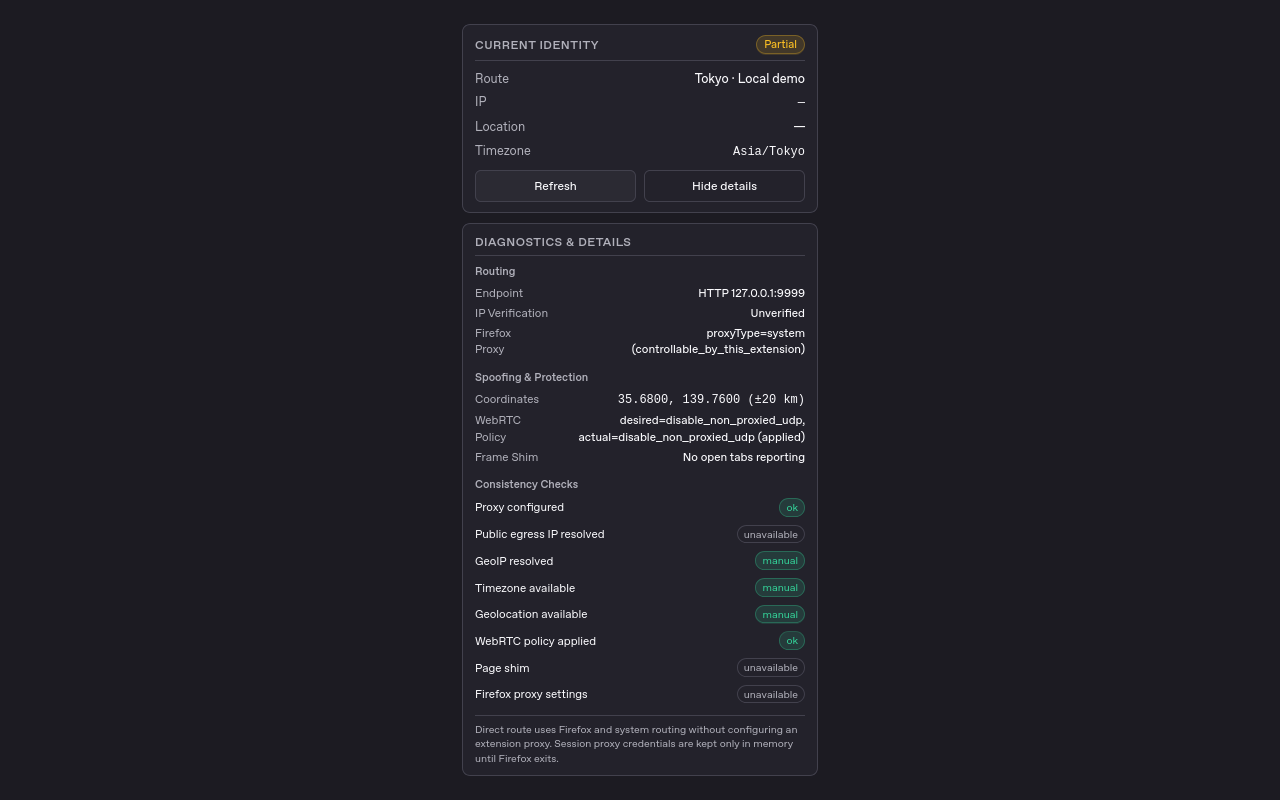
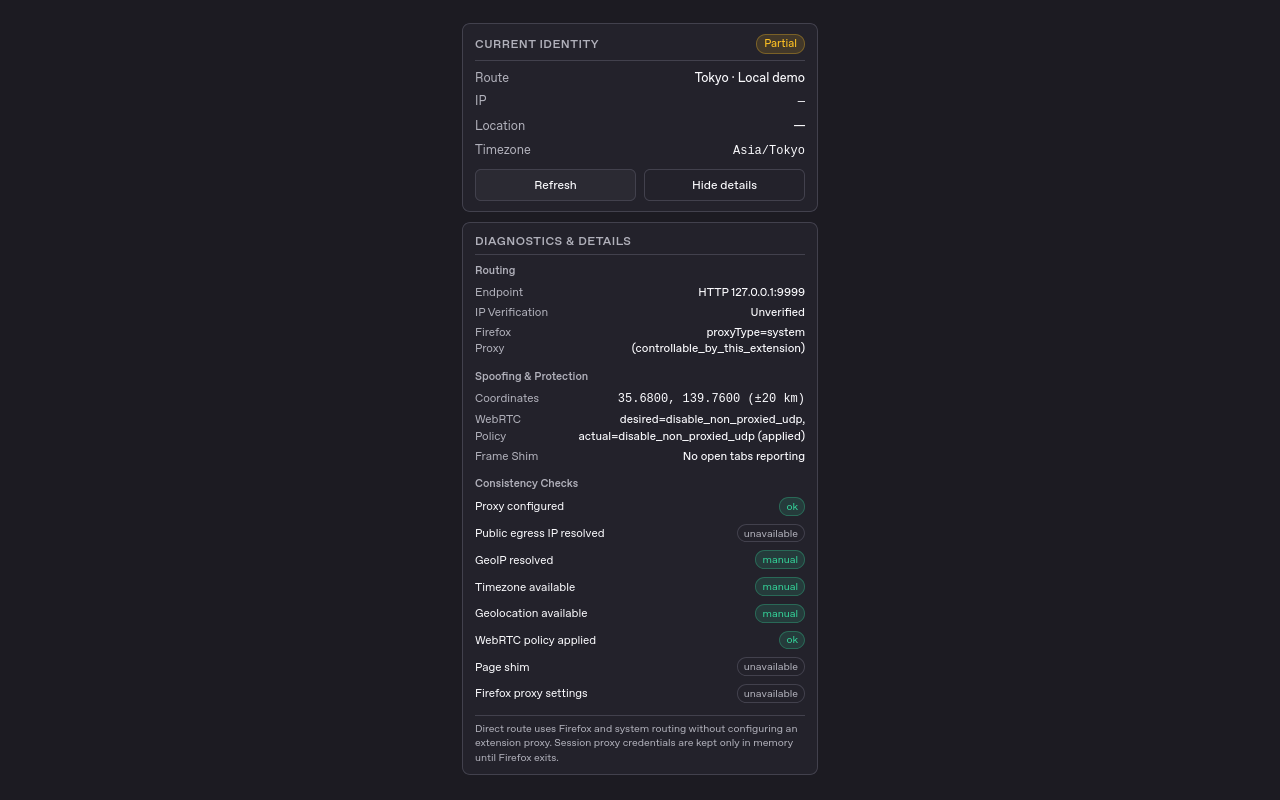
Prepare v1.1.3 listed Firefox release (#77)

diff --git a/tests/version-policy.test.ts b/tests/version-policy.test.ts
@@ -6,8 +6,8 @@ import {
 } from "../src/release/version";
 
 const current = {
-  packageVersion: "1.1.2",
-  manifestVersion: "1.1.2",
+  packageVersion: "1.1.3",
+  manifestVersion: "1.1.3",
   extensionId: "net-identity@jacek4yang.github.io",
 };
 
@@ -16,12 +16,12 @@ describe("release version policy", () => {
     expect(
       checkReleaseVersion({
         ...current,
-        tag: "v1.1.2",
-        previousVersions: ["1.0.0", "1.1.0", "1.1.1"],
+        tag: "v1.1.3",
+        previousVersions: ["1.0.0", "1.1.0", "1.1.1", "1.1.2"],
         dirty: false,
         requireClean: true,
       }),
-    ).toEqual({ ok: true, version: "1.1.2" });
+    ).toEqual({ ok: true, version: "1.1.3" });
   });
 
   it("rejects a mismatched tag, a dirty tree, a downgrade, and a repeat", () => {
@@ -34,7 +34,7 @@ describe("release version policy", () => {
     const downgraded = checkReleaseVersion({ ...current, previousVersions: ["1.2.0"] });
     expect(downgraded.ok).toBe(false);
 
-    const duplicate = checkReleaseVersion({ ...current, previousVersions: ["1.1.2"] });
+    const duplicate = checkReleaseVersion({ ...current, previousVersions: ["1.1.3"] });
     expect(duplicate.ok).toBe(false);
 
     const malformed = checkReleaseVersion({ ...current, packageVersion: "0.2" });

diff --git a/tests/release-workflow.test.ts b/tests/release-workflow.test.ts
@@ -8,6 +8,9 @@ const ci = readFileSync(".github/workflows/ci.yml", "utf8");
 const firefox = readFileSync(".github/workflows/firefox-invariants.yml", "utf8");
 
 describe("two-phase AMO publication", () => {
+  it("selects listed distribution for the next release without changing channel support", () => {
+    expect(JSON.parse(readFileSync("release-config.json", "utf8"))).toEqual({ channel: "listed" });
+  });
   it("submits only from version tags after both complete gates", () => {
     expect(workflow).toContain('"v[0-9]+.[0-9]+.[0-9]+"');
     expect(workflow).toContain(

diff --git a/docs/RELEASING.md b/docs/RELEASING.md
@@ -95,8 +95,11 @@ its canonical URL and update README via a separate docs PR; do not modify tagged
 ## Credentials and diagnostics
 
 Existing repository secrets `AMO_JWT_ISSUER` / `AMO_JWT_SECRET` are used only by trusted
-submission/finalization and the main-only read-only status workflow. PR workflows never
-receive them. Node's built-in HMAC-SHA256 creates a JWT valid for 60 seconds. API GETs use
+submission/finalization, the main-only read-only status workflow, and the separate
+manual main-only listing publisher. The publisher changes only reviewed public listing
+copy/media after exact listed-version approval and release finalization; it cannot sign
+or submit a version. Its read-only GitHub permissions, fixed AMO endpoints and resumable
+write receipts keep it separate from signing. PR workflows never receive these secrets. Node's built-in HMAC-SHA256 creates a JWT valid for 60 seconds. API GETs use
 a fixed AMO v5 origin, reject redirects and bound response sizes. Tokens, headers and raw
 signing-client output are never logged or archived. No local or third-party signing occurs.
 
@@ -144,26 +147,48 @@ gate includes the SOCKS outage, event-page restart, full-restart, authenticated 
 HTTP/HTTPS/WS/WSS, DNS, and zero direct-origin leak checks. At the time of that release, v1.1.0 was listed/unreviewed. Historical tags, releases
 and AMO submissions remain unchanged; see the dated status below.
 
-## Current status and unreleased candidate (2026-10-01)
+## Current status and 1.1.3 release candidate (2026-10-01)
 
 The public [v1.1.0 GitHub release](https://github.com/jacek4yang/net-identity/releases/tag/v1.1.0)
 now records listed distribution and the canonical
 [AMO URL](https://addons.mozilla.org/en-US/firefox/addon/net-identity/).
-This corrects the earlier historical pending-review statements. The live AMO page was
-not independently reachable during this check; GitHub release provenance is the evidence
-for this documentation update, not a new claim about live listing availability.
+The public API and rendered listing were independently verified on 2026-10-01:
+the add-on is enabled/public and its current listed version is 1.1.0. The API was
+rechecked at 04:13 UTC. This supersedes earlier notes that relied only on GitHub
+release provenance; historical pending-review observations remain dated history.
 
-The current working candidate still carries package version 1.1.2. Its schema-4,
-session-only username/password and passive SOCKS-health changes are unreleased. Select
-and verify the next unused patch against tags and authenticated AMO state before the
-separate version PR. The authenticated main-only [status run](https://github.com/jacek4yang/net-identity/actions/runs/36807778410)
+Version 1.1.3 is the selected schema-4 release candidate, with session-only usernames
+and passwords, passive SOCKS health, bounded cooldown and repeated-flap coverage.
+The implementation was squash-merged in [PR #76](https://github.com/jacek4yang/net-identity/pull/76)
+to main commit `104a97706be1421574915d921d3696d9870a1095`; its
+[exact-head CI](https://github.com/jacek4yang/net-identity/actions/runs/36809016499) passed.
+The missing-session-credential fix was subsequently merged in
+[PR #78](https://github.com/jacek4yang/net-identity/pull/78), including the explicit
+Firefox-protected browser-service boundary. The separate release PR aligns version
+1.1.3, listed distribution and reviewer material. Its merged commit
+must pass every release gate before the immutable v1.1.3 tag is created.
+
+The authenticated main-only [status run](https://github.com/jacek4yang/net-identity/actions/runs/36807778410)
 on 2026-10-01 at 02:51:21 UTC reported the add-on public and version 1.1.3 absent.
-Thus 1.1.3 is the checked candidate patch, not a release or submission; recheck before
-use if intervening submissions occur. Keep `release-config.json` unlisted.
+That records the original candidate selection. The later authenticated main-only
+[recheck](https://github.com/jacek4yang/net-identity/actions/runs/36814633282)
+on main `89e4c0e2ccc54fe476e5e74e9d5d3943973d4ef2` at 04:20:22 UTC the same day
+again returned add-on public and version 1.1.3 absent. Neither check reserves the version
+or establishes submission, signing or publication; recheck if intervening submissions occur.
+`release-config.json` now selects listed for the intended public 1.1.3 release.
+No submission, signing, tag or publication is implied by this configuration change.
 Neither the older listed release nor any historical signing assets are changed.
 
 Candidate screenshots are prepared from actual clean Firefox UI with fixture-only data.
 An unsigned candidate is acceptable for asset preparation when provenance records that
 fact. Screenshots do not satisfy any signing gate. AMO icon/preview uploads are separate
-listing API mutations, not prerequisites for unlisted signing; do not mix them into the
-credential-isolated submission/finalizer pipeline.
+listing API mutations, separate from version signing; do not mix them into the
+credential-isolated submission/finalizer pipeline. Publish listing copy/media only after
+the exact finalized listed version is public/current and the listing publisher verifies
+its signature/provenance and captured UI payload. Rendering and asynchronous icon/media
+processing still require visual readback.
+
+The ordinary-request missing-credential gate does not cancel all Firefox-protected
+browser-service requests. They can still reach the selected proxy anonymously if it
+accepts that mode. Require upstream rejection of anonymous clients for browser-wide
+account identity; neither the release nor listing must claim a universal kill switch.

diff --git a/docs/AMO-REVIEW.md b/docs/AMO-REVIEW.md
@@ -34,13 +34,15 @@ when the proxy is unavailable or its required session credentials are gone. Unsa
 profile documents are held unchanged. A failed teardown does not release native
 geolocation until Off successfully commits.
 
-These notes describe the unreleased schema-4 candidate, whose package version remains 1.1.2 until a separate version PR selects an unused patch. Earlier
+These notes describe the 1.1.3 schema-4 release candidate. Its health/credential implementation was merged in PR #76 and its ordinary-request missing-credential gate in PR #78; the separate release PR sets version 1.1.3 and selects listed distribution. No tag, submission, signing or publication is implied by these notes. Earlier
 versions retain their immutable tagged source archives for historical review.
 
 ## Install channel
 
-Listed releases use AMO for public installation and automatic updates. The candidate
-preserves unlisted signing as described below. Each GitHub Release remains draft until its
+Listed releases use AMO for public installation and automatic updates. The 1.1.3
+candidate selects listed distribution. Public AMO 1.1.0 was independently confirmed
+through the API and rendered listing on 2026-10-01; 1.1.3 is not yet claimed submitted
+or approved. Historical 1.1.1/1.1.2 unlisted distribution remains unchanged. Each GitHub Release remains draft until its
 exact AMO file is public and the Mozilla signature has been verified. Its primary installer is the exact XPI downloaded from
 Mozilla, hash-checked and permanently installed in signature-enforcing normal Firefox.
 No unsigned submission ZIP is presented as a signed installer. Source and provenance
@@ -63,11 +65,13 @@ The committed PNGs are:
 3. [`03-identity-audit.png`](../store-assets/screenshots/03-identity-audit.png)
 4. [`04-local-location-picker.png`](../store-assets/screenshots/04-local-location-picker.png)
 
-[Capture metadata](../store-assets/screenshots/metadata.json) records Firefox 158.0 on
-Linux, candidate extension version 1.1.2, dark theme, source/image hashes and the
+[Capture metadata](../store-assets/screenshots/metadata.json) records stable Firefox 157.0 on
+Linux, candidate extension version 1.1.3, dark theme, source/image hashes and the
 `Tokyo · Local demo` fixture: loopback proxy, GeoIP disabled, no credentials, synthetic
 coordinates and timezone. The popup is the real 380px UI centered on a plain 1280×800
-canvas; options retain their normal layout. [Asset instructions](../store-assets/README.md)
+canvas; the audit view uses a lossless native-scale crop of the actual identity and
+diagnostics cards with plain matching-background margins, without changing status
+content. Options retain their normal layout. [Asset instructions](../store-assets/README.md)
 explain deterministic icon generation and screenshot reproduction.
 
 ## After a review comment
@@ -94,7 +98,7 @@ Outage, event-page restart, full restart, authentication loss, and recovery are 
 by real Firefox tests for HTTP, HTTPS, WS, WSS and proxy DNS. The normal-user GitHub
 installer is published only after Mozilla signing and permanent installation checks.
 
-## Current candidate: credentials and SOCKS health
+## Version 1.1.3 candidate: credentials and SOCKS health
 
 Both username and password are stored only in `storage.session`, including the active
 session snapshot. The options fields load blank; both blank preserve the saved pair,

diff --git a/README.md b/README.md
@@ -122,22 +122,24 @@ See [`docs/SECURITY.md`](docs/SECURITY.md) for the invariants and
 
 ## Installation
 
-For normal Firefox, use a verified signed installer from the
-[GitHub Releases](https://github.com/jacek4yang/net-identity/releases) page. The
-[v1.1.0 public release](https://github.com/jacek4yang/net-identity/releases/tag/v1.1.0)
-records the canonical [AMO listing](https://addons.mozilla.org/en-US/firefox/addon/net-identity/).
-Status checked on 2026-10-01 from GitHub release provenance; the live AMO page was
-not independently reachable during this check. The earlier statement that no listing
-exists is obsolete.
+For normal Firefox, install from the public
+[AMO listing](https://addons.mozilla.org/en-US/firefox/addon/net-identity/).
+The listing and public API were independently checked on 2026-10-01; the current
+listed version is 1.1.0. Its signed installer and provenance are also available in the
+[v1.1.0 GitHub release](https://github.com/jacek4yang/net-identity/releases/tag/v1.1.0).
 
-New unlisted releases remain draft until Mozilla signs the exact version and the
-finalizer verifies its bytes and permanent installation in normal Firefox. Download
+Version 1.1.3 is being prepared for listed distribution and the default AMO update
+channel. It is a candidate, not a claim of submission, signing or publication.
+The release remains draft until Mozilla approves the exact listed version and the
+finalizer verifies its bytes and permanent installation in normal Firefox.
+
+Versions 1.1.1 and 1.1.2 remain historical unlisted self-distribution releases; their
+submissions and assets are unchanged. For a verified signed GitHub installer, download
 `net-identity-<version>-firefox-signed.xpi` and use Add-ons and themes → gear →
 Install Add-on From File. Source, checksums and provenance accompany the installer.
-Versions 1.1.1 and 1.1.2 use unlisted self-distribution; that does not confer public
-listing approval. GitHub does not automatically update installations. No custom update
-URL is configured; a higher listed AMO version may update the installation through
-Firefox's default AMO update service.
+GitHub itself does not automatically update installations. No custom update URL is
+configured; a higher listed AMO version may update them through Firefox's default
+AMO update service, subject to approval and any required consent prompts.
 
 See [reviewer notes](docs/AMO-REVIEW.md), [release checklist](docs/RELEASE-CHECKLIST.md),
 [privacy policy](docs/PRIVACY.md), and [release process](docs/RELEASING.md).

diff --git a/docs/PRIVACY.md b/docs/PRIVACY.md
@@ -50,7 +50,7 @@ Pages receive the location and timezone of the active profile through compatibil
 - Save stores edits; Apply activates the saved configuration and leaves unsaved form edits alone. An event-page restart preserves the applied revision and credentials, including when a newer revision was saved. Leaving both username and password blank keeps existing session credentials; entering either replaces the pair, and Clear credentials removes the saved credentials (Apply also removes them from runtime).
 - Deactivate the profile to stop the shims and release the WebRTC setting.
 
-These notes describe the current schema-4 candidate; its package version remains 1.1.2 until the separate release PR. Version 1.1.3 was verified absent on AMO on 2026-10-01 and is the candidate patch, not a published release. Earlier AMO submissions retain the privacy behavior documented in their immutable tagged source archives. The coordinate picker remains entirely local, Direct is virtual, and the committed applied route is stored separately from saved edits without usernames or passwords.
+These notes describe the 1.1.3 schema-4 candidate intended for listed AMO distribution. The authenticated status check on 2026-10-01 at 02:51:21 UTC found 1.1.3 absent before selection. A later authenticated recheck on the same day at 04:20:22 UTC again found 1.1.3 absent; see the dated workflow links in docs/RELEASING.md. Recheck if intervening submissions occur. This document does not imply submission, signing or publication. Earlier AMO submissions retain the privacy behavior documented in their immutable tagged source archives. The coordinate picker remains entirely local, Direct is virtual, and the committed applied route is stored separately from saved edits without usernames or passwords.
 
 ## Passive health observations
 

diff --git a/docs/RELEASE-CHECKLIST.md b/docs/RELEASE-CHECKLIST.md
@@ -122,3 +122,21 @@ channel, then update README in a separate documentation PR if needed.
       when applicable; screenshots are not evidence of Mozilla approval or signature
 - [ ] Authenticated AMO state confirms the next patch version is unused before the
       separate version PR. Do not infer availability from Git tags alone
+
+## 1.1.3 listed-release plan
+
+- [ ] Confirm package, lockfile and manifest remain 1.1.3 and the tagged release-config
+      selects listed; do not alter historical 1.1.1/1.1.2 submissions or assets
+- [ ] Recheck authenticated AMO status immediately before submission. The earlier
+      [status run](https://github.com/jacek4yang/net-identity/actions/runs/36807778410)
+      reported 1.1.3 absent at 02:51:21 UTC on 2026-10-01; the
+      [04:20:22 UTC recheck](https://github.com/jacek4yang/net-identity/actions/runs/36814633282)
+      again found it absent. Neither check reserves the version
+- [ ] Verify dual-mode SOCKS rejects ordinary fixture traffic while credentials are
+      missing, then restores authenticated access after Save and Apply
+- [ ] Keep Firefox-protected browser-service anonymous-access limitations visible in
+      reviewer notes, privacy text and listing; do not claim a browser-wide kill switch
+- [ ] After exact listed-version approval and release finalization, run the separate
+      listing publisher dry-run, review its plan and publish only the reviewed copy/media
+- [ ] Visually inspect the public listing and rendered media; report moderation/cache
+      delay honestly and do not equate accepted uploads with public visibility
